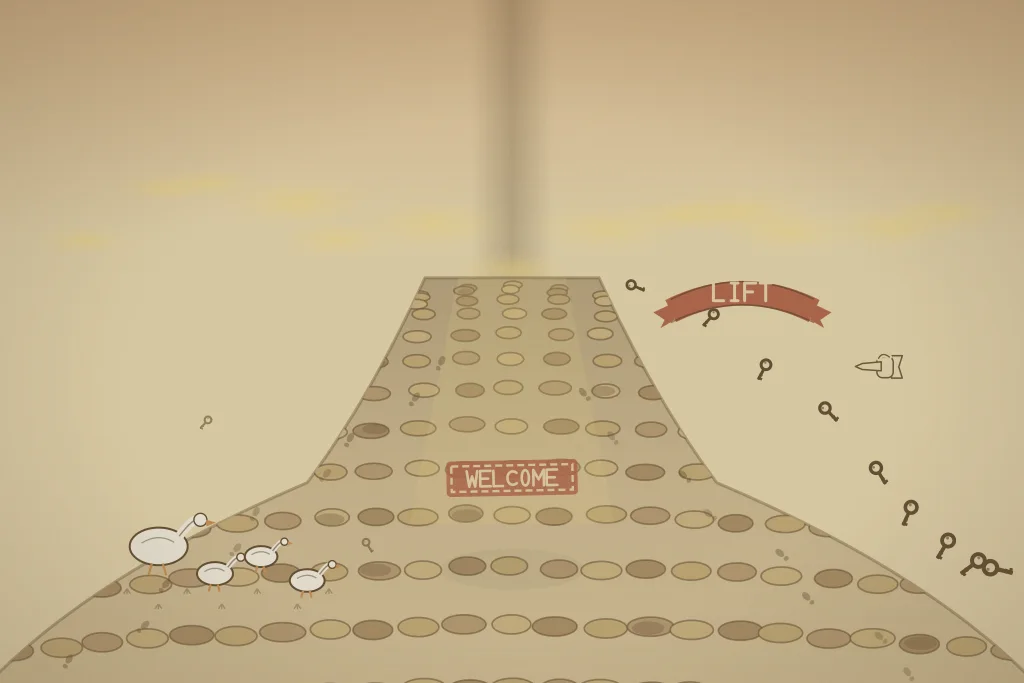
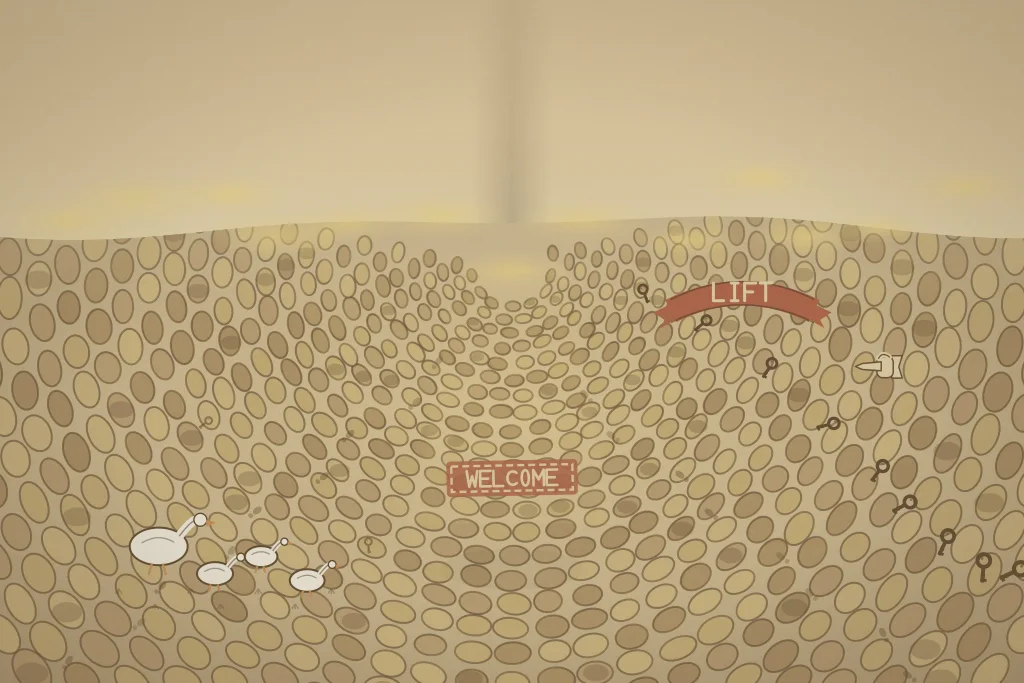
feat(labs/storybook): s2 T-FLOOR sweeps past horizontal - courtyard, not island
Surgical follow-up to a135d7d's floor. The bold-paving pass was right about
mass (filled stones, never wireframe) but the paved region stopped mid-page:
a polygon pinched at the door and flared to the apron, whose two flanks read
as hard diagonals with bare parchment shoulders - a trapezoid island, or a
ramp on a hill, rather than a courtyard. Three changes, all inside the
existing painter; the mat, key trail, geese, footprints, ribbon and manicule
are untouched.

- FIELD: the paving now reaches BOTH page edges and dissolves into the far
  page under a haze (new s2pgHaze), with a gently WAVED far edge - a ruled
  horizon prints as a seam. The courtyard has to BE the page; anything that
  terminates mid-plate fails the pinned-camera read as surely as a wireframe
  did. The hard field stroke is gone with it.
- COURSES: laid as true ARCS about the great door in pixel space, so the
  painted perspective CONVERGES on plane B's door (scene pack 1, T-FLOOR).
  Straight full-width rows were tried first and rejected in the same pass:
  they pave the plate but throw the convergence away and read as a rug of
  pebbles. Stones grow with radius and each course carries as many as it
  takes to tile its own arc, so the joint stays thin at every depth instead
  of opening into mortar rivers at the apron; running bond, per-stone spin
  and size jitter break the scale pattern.
- LIGHT: the pave wash is RADIAL about the door instead of a vertical ramp
[…]

diff --git a/docs/superpowers/art-call-sheet.md b/docs/superpowers/art-call-sheet.md
@@ -364,7 +364,8 @@ it left/right via a texture-offset transform. Book-level, spreads 1–9 (`SPREAD
 
 | Asset key(s) | Recommended aspect | Cutout | Status |
 |---|---|---|---|
-| `page-1`, `page-2`, `page-3`, `page-4`, `page-5`, `page-6`, `page-7`, `page-8`, `page-9` | ≈1536×1024, ≈1.5:1 landscape (matches the procedural fallback's own canvas ratio) | **OPAQUE** full-bleed | **all 9 have real art already** |
+| `page-2`, `page-4` | 1024×683, 1.5:1 landscape (at the G5 1024 long-edge cap) | **OPAQUE** full-bleed | **CODE-GENERATED** by `generate-art.mjs` (`innCourtyardSpread` / `postRoadSpread`) — the T-FLOOR prints |
+| `page-1`, `page-3`, `page-5`, `page-6`, `page-7`, `page-8`, `page-9` | ≈1536×1024, ≈1.5:1 landscape (matches the procedural fallback's own canvas ratio) | **OPAQUE** full-bleed | delivered art; still over the 1024 long-edge cap (the runtime downscales at load) |
 
 ## 13. Satchel-drawer icons (HTML overlay, non-WebGL — `satchel-items.ts` / `overlay/spread-overlay.tsx`)
 
